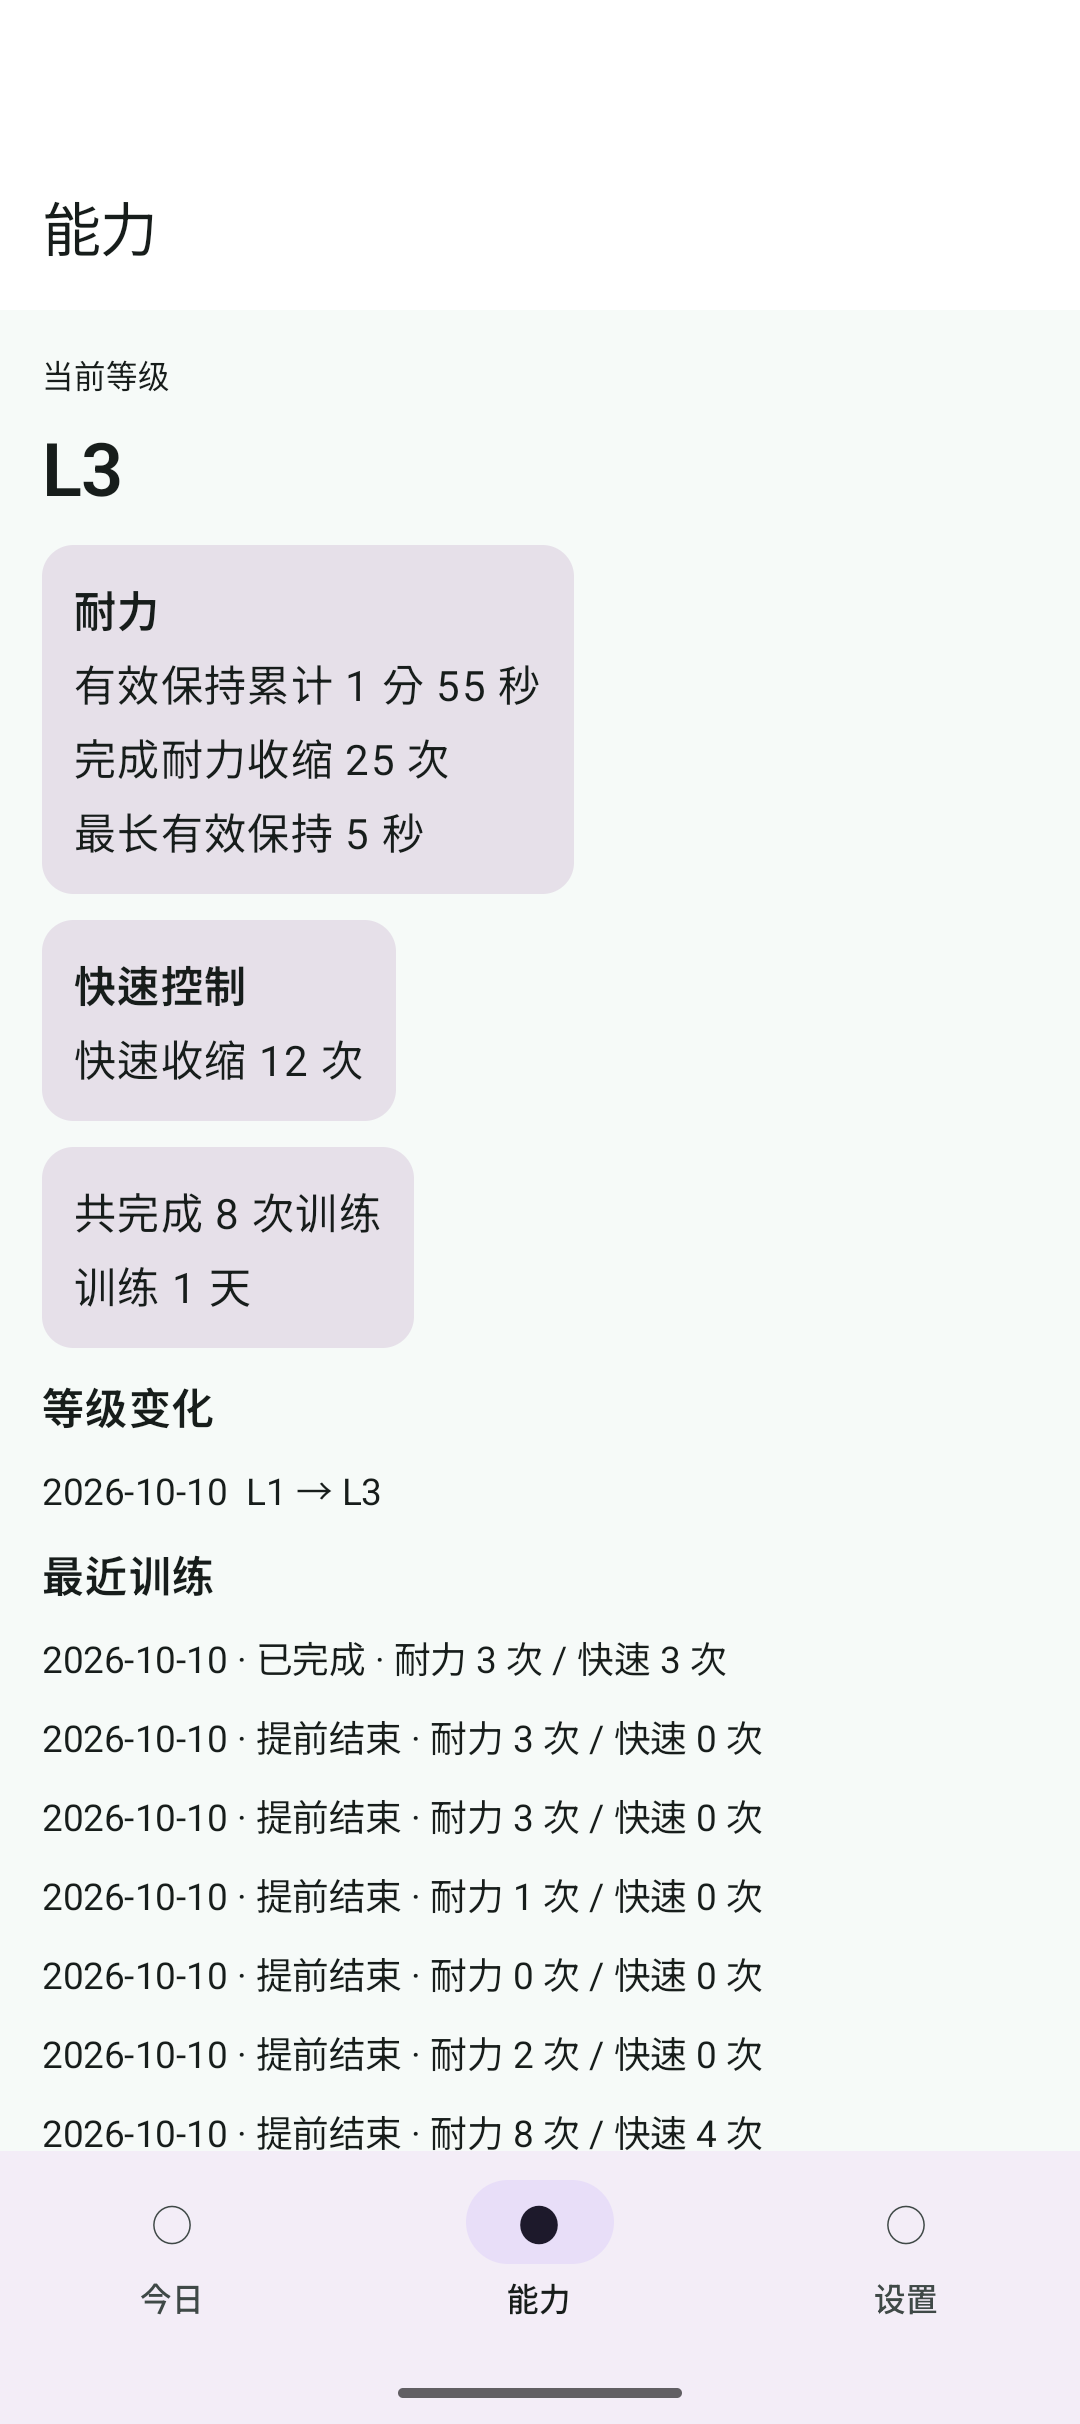
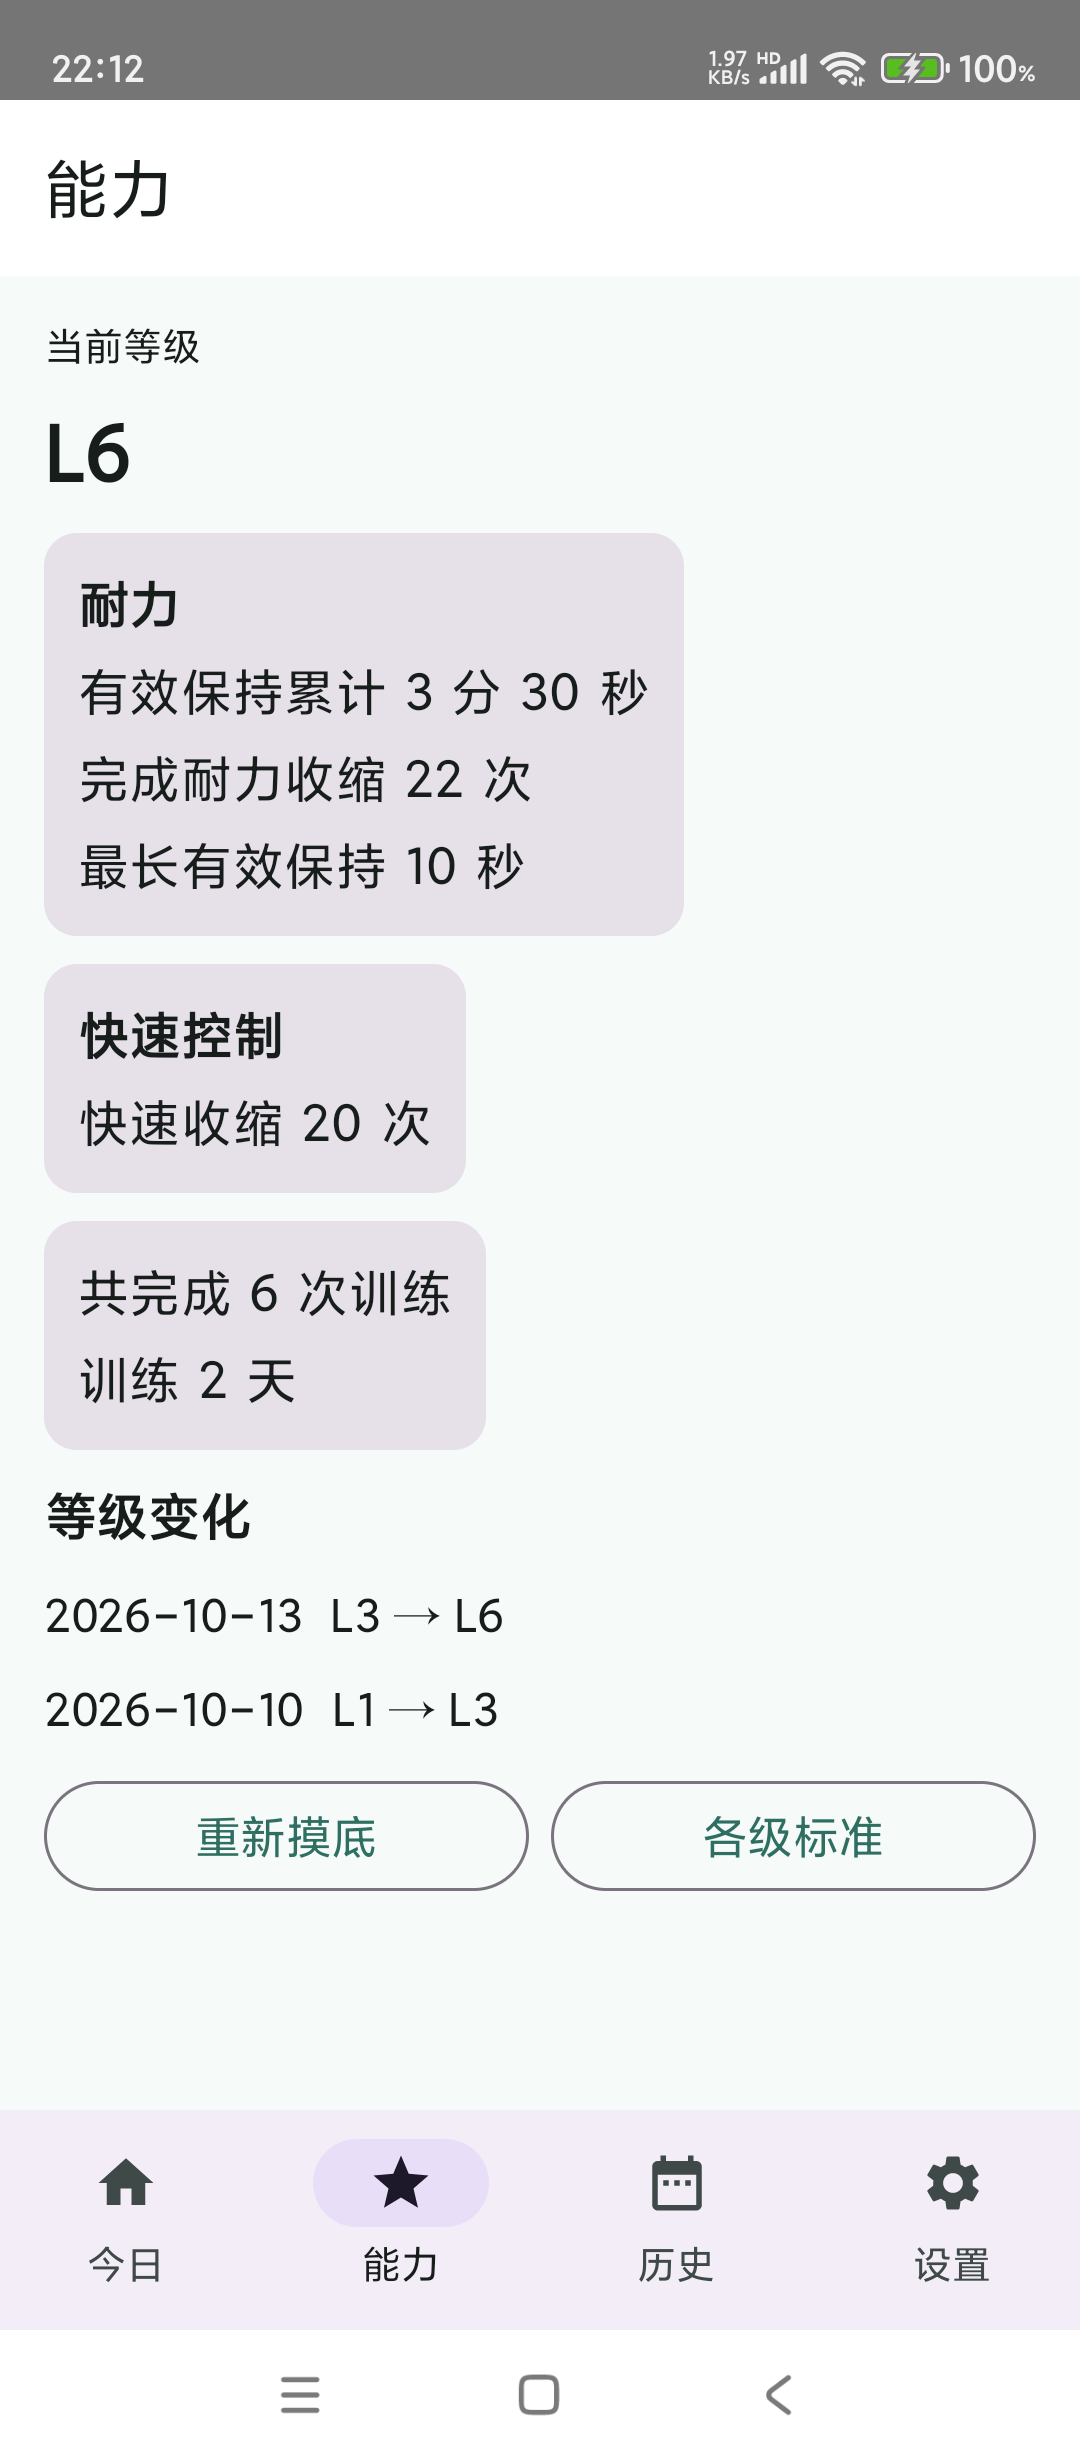
docs: 双语 README 更新（四个 tab 界面图、V2.2 标准、历史统计页）

diff --git a/README.en.md b/README.en.md
@@ -2,11 +2,14 @@
 
 [简体中文](./README.md)
 
-A voice-first **Kegel training app for men**: put on headphones and follow spoken cues — "tighten, hold, relax" — with no screen-staring and no mental counting. Train through 6 progressive levels; every session is logged automatically.
+A voice-first **Kegel training app for men**: put on headphones and follow spoken cues — "tighten, hold, relax" — with no screen-staring and no mental counting. Train through levels L1–L6; every session is logged and charted automatically.
 
-| Today | Progress | Settings |
-|---|---|---|
-| ![Today tab: one-tap session start](./docs/screenshots/home-zh-light.png) | ![Progress tab: endurance and quick-control stats](./docs/screenshots/ability-zh-light.png) | ![Settings tab: theme and language](./docs/screenshots/settings-zh-light.png) |
+<p align="center">
+  <img src="./docs/screenshots/home-zh-light.png" width="180" alt="Today: one-tap session start" />
+  <img src="./docs/screenshots/ability-zh-light.png" width="180" alt="Progress: endurance and quick-control stats" />
+  <img src="./docs/screenshots/history-zh-light.png" width="180" alt="History: summary, charts and daily detail" />
+  <img src="./docs/screenshots/settings-zh-light.png" width="180" alt="Settings: theme and language" />
+</p>
 
 ## The problem it solves
 
@@ -20,11 +23,12 @@ The hard part of Kegel (pelvic floor) training is not the exercise — it's cons
 
 ## Core features
 
-- **One-tap daily training**: an endurance + quick-control script generated from your current level, fully voice-guided (Chinese / English audio)
+- **One-tap daily training**: a script of "1 endurance group + 1 quick round" generated from your current level, fully voice-guided (Chinese / English audio)
 - **Optional ability assessment**: 5 items (movement control, endurance hold, endurance reps, quick reps, relaxation quality), all with built-in timers, countdowns and audio cues — no manual counting; suggests a training level L1–L6
-- **Six-level standards**: every level has exact hold / rest / rep values, viewable anytime; upgrades require several dimensions to pass together
-- **Full control mid-session**: pause, resume, end early, safety exit (stop immediately on pain); a low-key mode runs silent with subtitles and countdown only
-- **Daily budget**: 1/2/3 reminder sessions per day (3 auto-reduces volume), daily contractions capped at 40, plus a half-dose switch
+- **Six-level standards**: each level's "sessions/day × reps/session = daily reps" is listed on the Standards page (endurance, quick and daily-total tables), viewable anytime
+- **Full control mid-session**: pause, resume, end early, safety exit (stop immediately on pain or fatigue); a low-key mode runs silent with subtitles and countdown only
+- **Frequency and down-dose**: pick how many sessions per day (3 for low levels, 6 for L6) and a half-dose switch; ≤10 per endurance group, ≤20 per quick round, ≤40 per session
+- **History and stats**: totals (sessions, days, total time, total reps, endurance/quick split) plus daily time and daily reps bar charts and a daily detail table
 - **Progress tab**: endurance and quick stats kept separate; training days, session count and level history at a glance
 - **Light / dark / system theme, zh-CN / English**: unsupported system languages fall back to Chinese; switching never loses an in-progress session
 
@@ -36,7 +40,7 @@ Requires JDK 17 and an Android SDK (compileSdk 36 / minSdk 31); Gradle Wrapper i
 export JAVA_HOME=/path/to/jdk-17
 export ANDROID_HOME=/path/to/android-sdk
 ./gradlew assembleDebug          # -> app/build/outputs/apk/debug/app-debug.apk
-./gradlew testDebugUnitTest      # 21 domain unit tests
+./gradlew testDebugUnitTest      # 44 domain unit tests
 adb install -r app/build/outputs/apk/debug/app-debug.apk
 ```
 
@@ -53,9 +57,9 @@ Audio cue assets can be regenerated offline on macOS: `bash tools/make_cues.sh`.
 | Path | Contents |
 |---|---|
 | `app/` | Android app (Kotlin 2.1.20 + Jetpack Compose + Media3; `com.orca.kegel`) |
-| `docs/pm/` | Product plan and requirement source of truth (Product Plan V1.1) |
+| `docs/pm/` | Product plan and requirement source of truth (Product Plan V2.2) |
 | `docs/design/` | Design contract: interaction spec, freeze notes, clickable prototype (`docs/design/prototype/`) |
-| `docs/qa/` | Acceptance traceability matrix (34 ACs) and per-item evidence (`docs/qa/evidence-P045/`) |
+| `docs/qa/` | Acceptance traceability matrix and per-item evidence (`docs/qa/evidence-P045/`) |
 | `docs/roles/`, `docs/handoff/` | Development-process governance docs (ORCA role cards and handoff log) |
 
 ## Current version

diff --git a/README.md b/README.md
@@ -2,11 +2,14 @@
 
 [English](./README.en.md)
 
-一款专注男性盆底肌的**语音训练 App**：戴上耳机跟着语音做「收紧—保持—放松」，不用盯屏幕、不用自己数数；从 1–6 级逐级进阶，训练自动记录。
+一款专注男性盆底肌的**语音训练 App**：戴上耳机跟着语音做「收紧—保持—放松」，不用盯屏幕、不用自己数数；从 L1–L6 逐级进阶，训练自动记录并统计。
 
-| 今日首页 | 能力记录 | 设置 |
-|---|---|---|
-| ![今日页：一键开始今日训练](./docs/screenshots/home-zh-light.png) | ![能力页：耐力与快速控制统计](./docs/screenshots/ability-zh-light.png) | ![设置页：主题与语言](./docs/screenshots/settings-zh-light.png) |
+<p align="center">
+  <img src="./docs/screenshots/home-zh-light.png" width="180" alt="今日：一键开始今日训练" />
+  <img src="./docs/screenshots/ability-zh-light.png" width="180" alt="能力：耐力与快速控制统计" />
+  <img src="./docs/screenshots/history-zh-light.png" width="180" alt="历史：总计、图表与每日明细" />
+  <img src="./docs/screenshots/settings-zh-light.png" width="180" alt="设置：主题与语言" />
+</p>
 
 ## 它解决什么问题
 
@@ -20,11 +23,12 @@
 
 ## 核心功能
 
-- **一键开始今日训练**：按当前等级自动生成「耐力 + 快速」两段训练脚本，全程语音引导（中文 / English 双语语音）
+- **一键开始今日训练**：按当前等级自动生成「1 个耐力组 + 1 个快速回合」的脚本，全程语音引导（中文 / English 双语语音）
 - **可选的能力摸底**：5 个摸底项（动作控制、耐力保持、耐力次数、快速次数、放松质量）全部内置计时/倒计时＋语音提示，不需要手动计数；测完给出 L1–L6 **训练等级建议**
-- **六级递进标准**：每一级的保持秒数、休息、次数都有明确单值标准，可在「各级标准」页随时查看；升级由多个维度共同达标决定，不看屏幕也知道进度
-- **训练可控**：暂停、恢复、提前结束、安全出口（疼痛等情况下立即停止）；低调模式全程无声、仅字幕与倒计时
-- **额度与频率**：每日提醒 1/2/3 次可选，选 3 次自动降量；每日总收缩封顶 40 次，支持「今日半量」
+- **六级递进标准**：每一级「一天几场 × 每场几次 = 一天总次数」都明确列在「各级标准」页（耐力、快速、每日总计三张表），随时可看
+- **训练可控**：暂停、恢复、提前结束、安全出口（疼痛、疲劳等情况下立即停止）；低调模式全程无声、仅字幕与倒计时
+- **频率与降量**：每日分几场可调（低等级 3 场、L6 6 场），支持「今日半量」；每组 ≤10 次、快速每回合 ≤20 次、单场 ≤40 次
+- **历史与统计**：总计（训练次数、天数、总时长、总次数、耐力/快速分项）＋ 每日时长与每日次数的柱状图 ＋ 每日明细表
 - **能力页**：耐力 / 快速分开统计，训练天数、次数、等级变化历史一目了然
 - **主题三态 + 中英双语**：浅色 / 深色 / 跟随系统；简体中文 / English，其他系统语言自动回退中文；切换不丢训练状态
 
@@ -36,7 +40,7 @@
 export JAVA_HOME=$HOME/android-toolchain/jdk-17.0.20.1+1/Contents/Home
 export ANDROID_HOME=$HOME/android-toolchain/sdk
 ./gradlew assembleDebug          # 产出 app/build/outputs/apk/debug/app-debug.apk
-./gradlew testDebugUnitTest      # 领域逻辑单元测试（21 个）
+./gradlew testDebugUnitTest      # 领域逻辑单元测试（44 个）
 adb install -r app/build/outputs/apk/debug/app-debug.apk
 ```
 
@@ -53,9 +57,9 @@ adb install -r app/build/outputs/apk/debug/app-debug.apk
 | 目录 | 内容 |
 |---|---|
 | `app/` | Android 应用（Kotlin 2.1.20 + Jetpack Compose + Media3；包名 `com.orca.kegel`） |
-| `docs/pm/` | 产品计划书与需求真源（Product Plan V1.1） |
+| `docs/pm/` | 产品计划书与需求真源（Product Plan V2.2） |
 | `docs/design/` | 设计契约：交互规范、冻结说明与可点击原型（`docs/design/prototype/`） |
-| `docs/qa/` | 产品验收追踪矩阵（34 条 AC）与逐条证据截图（`docs/qa/evidence-P045/`） |
+| `docs/qa/` | 产品验收追踪矩阵与逐条证据截图（`docs/qa/evidence-P045/`） |
 | `docs/roles/`、`docs/handoff/` | 开发流程治理文档（ORCA 角色卡与交接记录） |
 
 ## 当前版本
